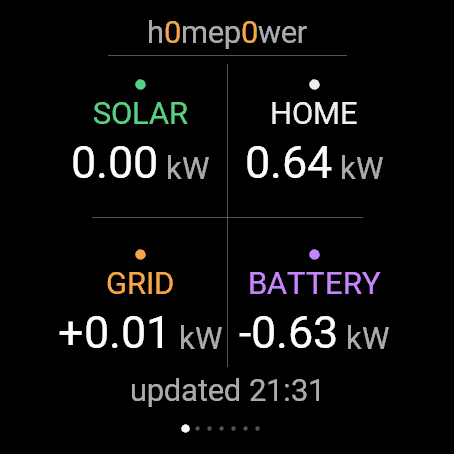
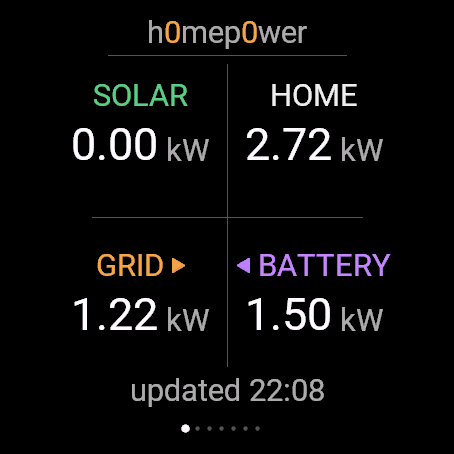
Solar page: stacked PV->battery/PV->home area, matching the web app's graph
Ported the same composition the web app's Graph tab uses for "Power
Production" (web/src/graph/GraphTab.jsx): PV->battery stacked under
PV->home, total production traced as a line on top, same colors
(#3DA568 dark green / #8EE3A8 light green / #5FCE80 total). Kept on a
midnight-to-now x-axis with the pulsing "now" dot already built for
this page - the web app's own chart has neither (its "24h" is a
trailing window, not day-anchored, and it has no now-marker), so this
is a deliberate adaptation rather than a literal port.

New model field solarBatteryHistory (same cadence as solarHistory,
kW routed to the battery per sample) - not sent by the backend yet,
falls back to a static demo curve until the WATCH.readme follow-up
lands. Verified in both demo mode (proper day-shaped data - renders
correctly) and live mode (where the still-trailing-8h backend window
makes most of the day correctly render blank, not a bug).

diff --git a/README.md b/README.md
@@ -16,8 +16,8 @@ A native Garmin Connect IQ watch app for the 454×454 AMOLED Fēnix 8 target, sh
 |---|
 | ![Connection](docs/screenshots/connection.png) |
 
-1. **Overview** — all four metrics at a glance, 2×2 grid
-2. **Solar** — current output, plus a line graph spanning the whole day (0h–24h on the x-axis) with a pulsing dot marking "now"
+1. **Overview** — the live view: all four metrics at a glance, 2×2 grid, no +/- signs - Grid and Battery instead show a pulsing drawn triangle for direction (export/discharge before the word, import/charge after - same pattern both cells share)
+2. **Solar** — current output, plus a stacked-area graph spanning the whole day (0h–24h on the x-axis) - PV→battery stacked under PV→home, total production traced on top, same composition as the web app's Graph tab - with a pulsing dot marking "now"
 3. **Home** — current consumption, bar chart, today's total
 4. **Battery** — charge %, a fill bar, charge/discharge rate, time-to-full, capacity
 5. **Grid** — import/export rate, bar chart, today's exported/imported totals
@@ -67,12 +67,13 @@ With `USE_DEMO_DATA = true` the app runs standalone with static demo values — 
   "batteryCapacity": 14.2,
   "batteryMinutesToFull": 195,
   "solarHistory": [0.4, 0.7, 1.1, 1.8, 2.6, 3.4, 4.0, 4.4],
+  "solarBatteryHistory": [0.0, 0.1, 0.3, 0.6, 0.9, 1.2, 1.4, 1.5],
   "homeHistory": [1.2, 1.6, 1.3, 1.1, 1.0, 1.2, 1.4, 1.7],
   "gridHistory": [-0.8, -1.1, -1.6, -2.1, -2.4, -2.8, -3.1, -3.0]
 }
 ```
 
-`grid`: negative = exporting, positive = importing. `batteryPower`: positive = charging, negative = discharging. The `*History` arrays feed the Solar page's day graph — they should span from local midnight to now for that graph to read correctly (a known gap: the current backend sends a trailing 8h window instead; see `h0me-p0wer`'s `WATCH.readme` for the fix in progress).
+`grid`: negative = exporting, positive = importing. `batteryPower`: positive = charging, negative = discharging. The `*History` arrays feed the Solar page's day graph — they should span from local midnight to now for that graph to read correctly (a known gap: the current backend sends a trailing 8h window instead; see `h0me-p0wer`'s `WATCH.readme` for the fix in progress). `solarBatteryHistory` is the portion of each `solarHistory` sample routed to the battery (same cadence/length) — the graph stacks it under the PV→home remainder (`solarHistory[i] - solarBatteryHistory[i]`) beneath the total production line, matching the web app's Graph tab. Not sent by the backend yet either (same readme, follow-up 2) — falls back to a static demo curve until then.
 
 ## Installing on the real watch
 
